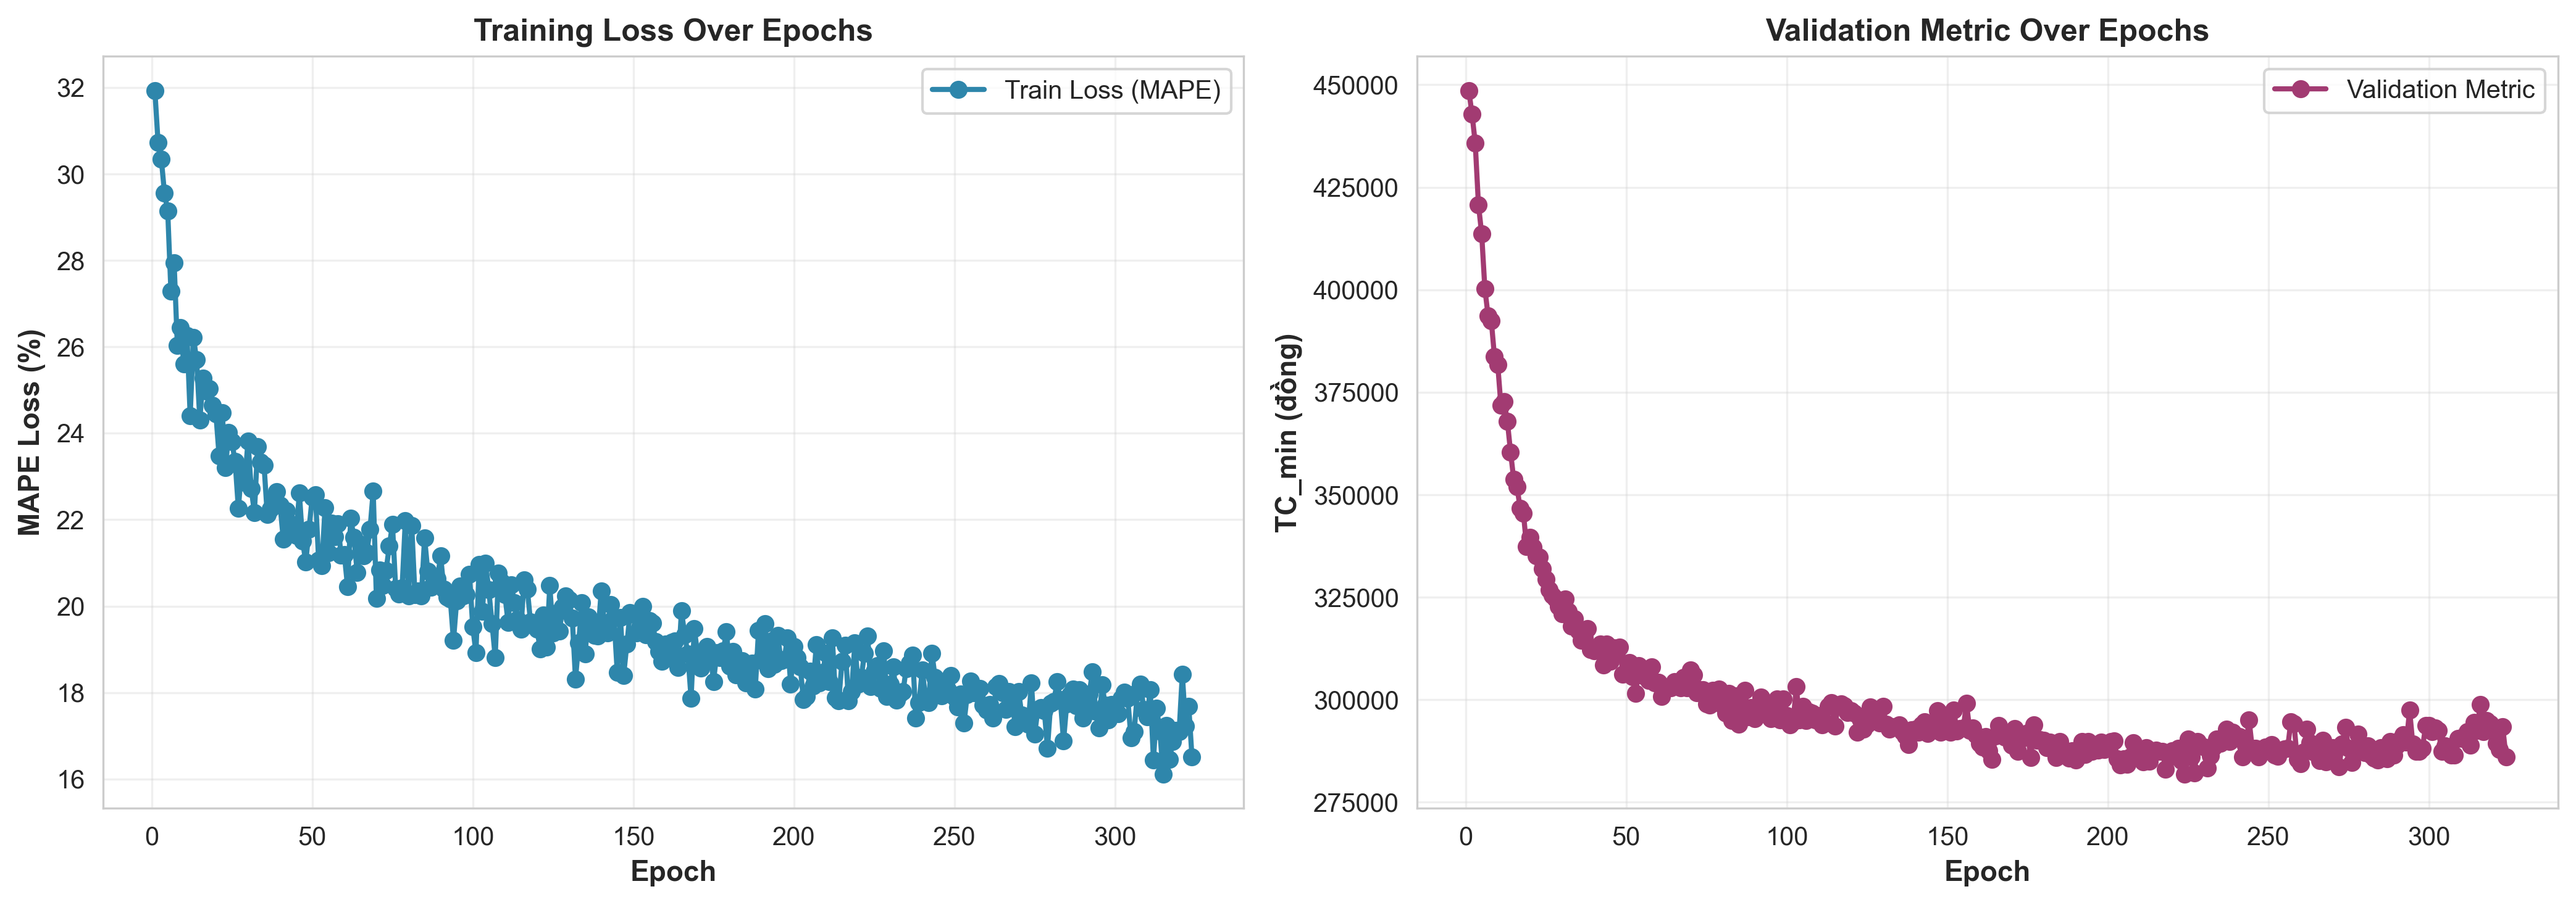
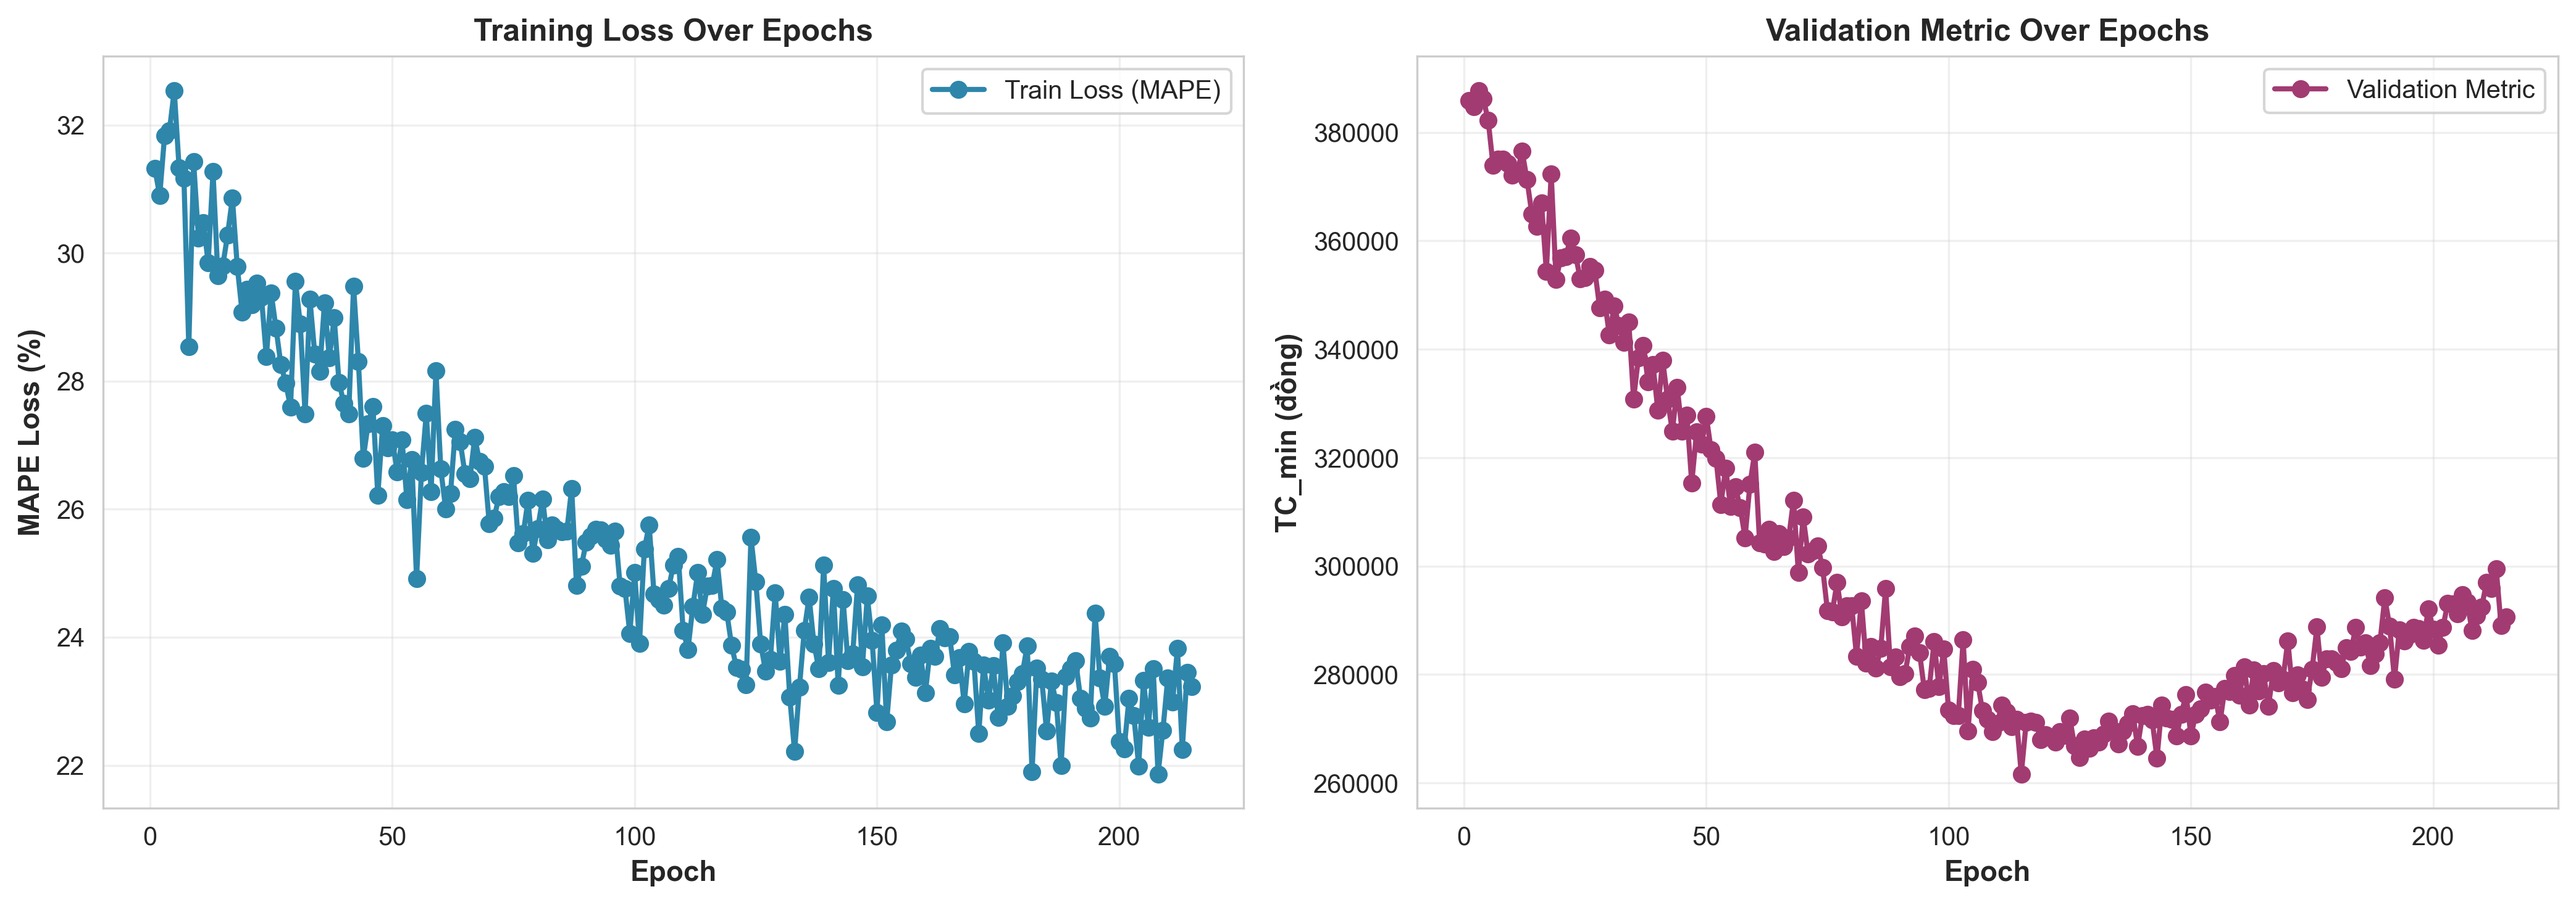
Refactored TSMixer

diff --git a/src/trainers/RevINMixer.py b/src/trainers/RevINMixer.py
@@ -3,6 +3,7 @@ import numpy as np
 import torch
 from torch.optim import Adam
 from pathlib import Path
+from typing import Optional
 
 from src.utils.seed import set_seed
 from src.utils.visualization import TrainingVisualizer
@@ -31,24 +32,36 @@ def compute_metrics(y_pred: np.ndarray, y_true: np.ndarray) -> dict:
     return dict(MAE=mae, MSE=mse, RMSE=rmse, MAPE=mape)
 
 def sweep_tc(pred: np.ndarray, holding_cost=2, lead_time=2,
-             ordering_cost=50_000, n_steps=1000) -> tuple:
-    """Sweep c_s ∈ (0, 10] → return (TC_min, c_s*)."""
+             ordering_cost=50_000, forecast_errors: Optional[np.ndarray] = None, n_steps=1000) -> tuple:
     pred = np.clip(pred, 1.0, None)
     best_tc, best_cs = float("inf"), None
     for cs in np.linspace(0.01, 10.0, n_steps):
-        tc = InventoryModel(cs, holding_cost, lead_time, ordering_cost).total_cost(pred)
+        tc = InventoryModel(cs, holding_cost, lead_time, ordering_cost).total_cost(pred, forecast_errors=forecast_errors)
         if np.isfinite(tc) and tc < best_tc:
             best_tc, best_cs = tc, cs
     return best_tc, best_cs
 
 @torch.no_grad()
 def collect_predictions(model, loader, device):
+    """
+    Collect predictions from model on loader.
+    
+    Returns:
+        pred: Predicted values
+        true: Actual values  
+        errors: Forecast errors (actual - predicted) for uncertainty calculation
+    """
     model.eval()
     preds, trues = [], []
     for x, y in loader:
         preds.append(model(x.to(device)).cpu().numpy())
         trues.append(y.numpy())
-    return np.concatenate(preds).flatten(), np.concatenate(trues).flatten()
+    
+    pred_array = np.concatenate(preds).flatten()
+    true_array = np.concatenate(trues).flatten()
+    errors = true_array - pred_array  # ← Forecast errors
+    
+    return pred_array, true_array, errors
 
 
 # ── Base Trainer ──────────────────────────────────────────────────────────────
@@ -56,7 +69,7 @@ def collect_predictions(model, loader, device):
 class BaseTrainer:
     def __init__(self, seq_length, ff_dim, dropout, pred_len,
                  n_block, batch_size, lr, epochs, patience,
-                 holding_cost, lead_time, ordering_cost, scenario: int = 1):
+                 holding_cost, lead_time, ordering_cost, scenario: int = 1, generate_plots: bool = False):
         self.seq_length    = seq_length
         self.ff_dim        = ff_dim
         self.dropout       = dropout
@@ -70,8 +83,9 @@ class BaseTrainer:
         self.lead_time     = lead_time
         self.ordering_cost = ordering_cost
         self.scenario      = scenario
+        self.generate_plots = generate_plots
         self.device        = torch.device("cuda" if torch.cuda.is_available() else "cpu")
-        self.visualizer    = TrainingVisualizer(save_dir="results")
+        self.visualizer    = TrainingVisualizer(save_dir="results") if generate_plots else None
 
     def _build_model(self):
         return ForecastModel(self.seq_length, self.ff_dim, self.dropout,
@@ -85,17 +99,11 @@ class BaseTrainer:
         """Validation metric — overridden per scenario."""
         raise NotImplementedError
 
-    def _print_results(self, pred, true):
+    def _compute_results(self, pred, true, errors=None):
         m = compute_metrics(pred, true)
         tc_min, cs_star = sweep_tc(pred, self.holding_cost,
-                                   self.lead_time, self.ordering_cost)
-        print(f"\n── Results ──────────────────────────────────────")
-        print(f"  MAE   : {m['MAE']:>15.4f}")
-        print(f"  MSE   : {m['MSE']:>15.4f}")
-        print(f"  RMSE  : {m['RMSE']:>15.4f}")
-        print(f"  MAPE  : {m['MAPE']:>14.4f} %")
-        print(f"  TC_min: {tc_min:>15.2f}")
-        print(f"  c_s*  : {cs_star:>15.4f}")
+                                   self.lead_time, self.ordering_cost, 
+                                   forecast_errors=errors)
         return {**m, "TC_min": tc_min, "c_s_star": cs_star}
 
     def train(self) -> tuple:
@@ -107,6 +115,9 @@ class BaseTrainer:
         optimizer = Adam(model.parameters(), lr=self.lr)
 
         best_val, best_state, no_improve, best_epoch = float("inf"), None, 0, 0
+        self.test_pred = None
+        self.test_true = None
+        self.best_epoch_num = 0
 
         for epoch in range(1, self.epochs + 1):
             t0 = time.time()
@@ -127,10 +138,12 @@ class BaseTrainer:
             val_metric = self._val_metric(model, val_loader)
             
             # Log metrics for visualization
-            self.visualizer.log_epoch(epoch, train_loss, val_metric)
+            if self.visualizer:
+                self.visualizer.log_epoch(epoch, train_loss, val_metric)
 
-            print(f"Epoch {epoch:>4} | train_mape={train_loss:>8.4f}% | "
-                  f"val={val_metric:>10.4f} | {time.time()-t0:.1f}s")
+            # Print every 10 epochs only
+            if epoch % 10 == 0 or epoch == 1:
+                print(f"Epoch {epoch:>4} | train={train_loss:>7.4f}% | val={val_metric:>9.2f}")
 
             if val_metric < best_val:
                 best_val   = val_metric
@@ -140,27 +153,32 @@ class BaseTrainer:
             else:
                 no_improve += 1
                 if no_improve >= self.patience:
-                    print(f"\nEarly stop at epoch {epoch}.")
+                    pass  
                     break
 
         if best_state is not None:
             model.load_state_dict(best_state)
-        pred, true = collect_predictions(model, test_loader, self.device)
-        metrics = self._print_results(pred, true)
+        pred, true, errors = collect_predictions(model, test_loader, self.device)
+        metrics = self._compute_results(pred, true, errors)
         
-        # Generate visualizations
-        print("\n" + "="*50)
-        print(f"  Generating visualizations for Scenario {self.scenario}...")
-        print("="*50)
-        self.visualizer.plot_training_history(scenario=self.scenario)
-        self.visualizer.plot_predictions_vs_actual(pred, true, scenario=self.scenario)
-        self.visualizer.plot_test_metrics(metrics, scenario=self.scenario)
-        self.visualizer.plot_comparison_with_baseline(pred, true, scenario=self.scenario)
-        self.visualizer.plot_metrics_summary(metrics, epoch=best_epoch, scenario=self.scenario)
-        print(f"✓ All plots saved to: results/")
-        print("="*50)
+        # Store for visualization
+        self.test_pred = pred
+        self.test_true = true
+        self.best_epoch_num = best_epoch
         
         return best_val, best_state, metrics
+    
+    def generate_visualizations(self, metrics):
+        """Generate visualizations (separate from training)."""
+        if not self.visualizer or self.test_pred is None:
+            return
+        print(f"\n[Scenario {self.scenario}] Generating visualizations...")
+        self.visualizer.plot_training_history(scenario=self.scenario)
+        self.visualizer.plot_predictions_vs_actual(self.test_pred, self.test_true, scenario=self.scenario)
+        self.visualizer.plot_test_metrics(metrics, scenario=self.scenario)
+        self.visualizer.plot_comparison_with_baseline(self.test_pred, self.test_true, scenario=self.scenario)
+        self.visualizer.plot_metrics_summary(metrics, epoch=self.best_epoch_num, scenario=self.scenario)
+        print(f"✓ Plots saved to results/")
 
 class Scenario1Trainer(BaseTrainer):
     """
@@ -170,10 +188,10 @@ class Scenario1Trainer(BaseTrainer):
 
     def __init__(self, seq_length=6, ff_dim=128, dropout=0.1, pred_len=3,
                  n_block=1, batch_size=4, lr=1e-4, epochs=100, patience=10,
-                 holding_cost=2, lead_time=2, ordering_cost=50_000):
+                 holding_cost=2, lead_time=2, ordering_cost=50_000, generate_plots: bool = False):
         super().__init__(seq_length, ff_dim, dropout, pred_len, n_block,
                          batch_size, lr, epochs, patience,
-                         holding_cost, lead_time, ordering_cost, scenario=1)
+                         holding_cost, lead_time, ordering_cost, scenario=1, generate_plots=generate_plots)
 
     @torch.no_grad()
     def _val_metric(self, model, loader) -> float:
@@ -192,18 +210,26 @@ class Scenario2Trainer(BaseTrainer):
 
     def __init__(self, seq_length=9, ff_dim=128, dropout=0.1, pred_len=3,
                  n_block=2, batch_size=2, lr=1e-4, epochs=1000, patience=100,
-                 holding_cost=2, lead_time=2, ordering_cost=50_000):
+                 holding_cost=2, lead_time=2, ordering_cost=50_000, generate_plots: bool = False):
         super().__init__(seq_length, ff_dim, dropout, pred_len, n_block,
                          batch_size, lr, epochs, patience,
-                         holding_cost, lead_time, ordering_cost, scenario=2)
+                         holding_cost, lead_time, ordering_cost, scenario=2, generate_plots=generate_plots)
 
     @torch.no_grad()
     def _val_metric(self, model, loader) -> float:
         model.eval()
         all_preds = []
-        for x, _ in loader:
-            all_preds.append(model(x.to(self.device)).cpu().numpy())
+        all_trues = []
+        for x, y in loader:
+            pred = model(x.to(self.device)).cpu().numpy()
+            all_preds.append(pred)
+            all_trues.append(y.numpy())
+        
         pred_np = np.clip(np.concatenate(all_preds).flatten(), 1.0, None)
+        true_np = np.concatenate(all_trues).flatten()
+        errors_np = true_np - pred_np  
+        
         tc_min, _ = sweep_tc(pred_np, self.holding_cost,
-                             self.lead_time, self.ordering_cost)
+                             self.lead_time, self.ordering_cost,
+                             forecast_errors=errors_np) 
         return tc_min

diff --git a/src/optimizer/optuna.py b/src/optimizer/optuna.py
@@ -17,7 +17,7 @@ SEARCH_SPACE = {
 class OptunaOptimizer:
     def __init__(self, scenario: int, n_trials: int = 50,
                  save_dir: str = "checkpoints_optuna",
-                 pred_len: int = 3, epochs: int = 100, patience: int = 10,
+                 pred_len: int = 3, epochs: int = 100, patience: int = 20,
                  holding_cost: int = 2, lead_time: int = 2,
                  ordering_cost: int = 50000):
         assert scenario in (1, 2)
@@ -30,8 +30,9 @@ class OptunaOptimizer:
         self.holding_cost  = holding_cost
         self.lead_time     = lead_time
         self.ordering_cost = ordering_cost
+        self.trial_results = {}  # Store results to avoid re-training
 
-    def _make_trainer(self, params: dict):
+    def _make_trainer(self, params: dict, generate_plots: bool = False):
         shared = dict(
             seq_length=params["seq_length"], ff_dim=params["ff_dim"],
             dropout=params["dropout"],       pred_len=self.pred_len,
@@ -39,6 +40,7 @@ class OptunaOptimizer:
             lr=params["lr"],                 epochs=self.epochs,
             patience=self.patience,          holding_cost=self.holding_cost,
             lead_time=self.lead_time,        ordering_cost=self.ordering_cost,
+            generate_plots=generate_plots,
         )
         return Scenario1Trainer(**shared) if self.scenario == 1 else Scenario2Trainer(**shared)
 
@@ -46,7 +48,15 @@ class OptunaOptimizer:
         set_seed(trial.number)
         params  = {k: trial.suggest_categorical(k, v) for k, v in SEARCH_SPACE.items()}
         trainer = self._make_trainer(params)
-        best_val, _, _ = trainer.train()
+        best_val, best_state, metrics = trainer.train()
+        
+        # Auto-save results to avoid re-training
+        self.trial_results[trial.number] = {
+            "params": params,
+            "val_metric": best_val,
+            "model_state": best_state,
+            "metrics": metrics,
+        }
         return best_val
 
     def _save_top3(self, study: optuna.Study) -> None:
@@ -55,10 +65,12 @@ class OptunaOptimizer:
 
         print(f"\n── Scenario {self.scenario} — Top 3 ─────────────────────────────")
         for rank, trial in enumerate(top3, start=1):
-            trainer = self._make_trainer(trial.params)
-            best_val, best_state, metrics = trainer.train()
+            # Load stored results instead of re-training
+            result = self.trial_results.get(trial.number, {})
+            best_state = result.get("model_state")
+            metrics = result.get("metrics", {})
 
-            print(f"\n  Rank {rank} | val={trial.value:.4f} | params={trial.params}")
+            print(f"  Rank {rank} | val={trial.value:.4f} | saved")
 
             # ── checkpoint .pt ────────────────────────────────────────────────
             torch.save({
@@ -83,12 +95,12 @@ class OptunaOptimizer:
                 f"  {val_label:<12}: {trial.value:.4f}",
                 "",
                 "── Test metrics ─────────────────────────────",
-                f"  {'MAE':<12}: {metrics['MAE']:.4f}",
-                f"  {'MSE':<12}: {metrics['MSE']:.4f}",
-                f"  {'RMSE':<12}: {metrics['RMSE']:.4f}",
-                f"  {'MAPE (%)':<12}: {metrics['MAPE']:.4f}",
-                f"  {'TC_min':<12}: {metrics['TC_min']:.2f}",
-                f"  {'c_s*':<12}: {metrics['c_s_star']:.4f}",
+                f"  {'MAE':<12}: {metrics.get('MAE', 0):.4f}",
+                f"  {'MSE':<12}: {metrics.get('MSE', 0):.4f}",
+                f"  {'RMSE':<12}: {metrics.get('RMSE', 0):.4f}",
+                f"  {'MAPE (%)':<12}: {metrics.get('MAPE', 0):.4f}",
+                f"  {'TC_min':<12}: {metrics.get('TC_min', 0):.2f}",
+                f"  {'c_s*':<12}: {metrics.get('c_s_star', 0):.4f}",
             ]
             txt_path.write_text("\n".join(lines), encoding="utf-8")
             print(f"  Saved → s{self.scenario}_rank{rank}.pt / .txt")
@@ -101,12 +113,12 @@ class OptunaOptimizer:
         study.optimize(self._objective, n_trials=self.n_trials,
                        show_progress_bar=True, catch=(Exception,))
 
-        print(f"\nBest val    : {study.best_value:.4f}")
-        print(f"Best params : {study.best_params}")
+        print(f"\n{'='*50}")
+        print(f"Scenario {self.scenario} | Best val: {study.best_value:.4f}")
+        print(f"{'='*50}")
         self._save_top3(study)
         return study
 
 if __name__ == "__main__":
     set_seed()
-    OptunaOptimizer(scenario=1, n_trials=50).run()
     OptunaOptimizer(scenario=2, n_trials=50).run()

diff --git a/src/models/InventoryModel/InventoryModel.py b/src/models/InventoryModel/InventoryModel.py
@@ -1,5 +1,6 @@
 import numpy as np
 from scipy.stats import norm
+from typing import Optional
 
 class InventoryModel:
     def __init__(self, shortage_cost: float, holding_cost: int = 2, lead_time: int = 2, ordering_cost: int = 50000):
@@ -8,9 +9,10 @@ class InventoryModel:
         self.lead_time = lead_time
         self.ordering_cost = ordering_cost
 
-    def total_cost(self, demand_forecast: np.ndarray) -> float:
+    def total_cost(self, demand_forecast: np.ndarray, forecast_errors: np.ndarray) -> float:
         self.muy = np.mean(demand_forecast)
-        self.sigma = np.std(demand_forecast)
+        self.sigma = np.std(forecast_errors)
+        
         self.order_quantity = np.sqrt(2 * self.ordering_cost * self.muy / self.holding_cost)
 
         self.alpha = 1 - (self.holding_cost * self.order_quantity) / (self.shortage_cost * self.muy)

diff --git a/main.py b/main.py
@@ -14,8 +14,8 @@ FF_DIM       = 64       # hidden dimension of FeatureMixingLayer
 PRED_LEN     = 3        # forecast horizon (months ahead)
 
 # Training hyperparameters
-BATCH_SIZE   = 4
-LR           = 1e-4     # learning rate
+BATCH_SIZE   = 2
+LR           = 1e-5     # learning rate
 EPOCHS       = 1000
 PATIENCE     = 100      # early-stopping patience
 
@@ -41,8 +41,10 @@ def main():
         holding_cost=HOLDING_COST,
         lead_time=LEAD_TIME,
         ordering_cost=ORDERING_COST,
+        generate_plots=True,  # Generate visualizations during training
     )
     best_val, best_state, metrics = trainer.train()
+    trainer.generate_visualizations(metrics)
 
     val_label = "MAPE (%)" if SCENARIO == 1 else "TC_min"
     print("\n" + "=" * 50)
